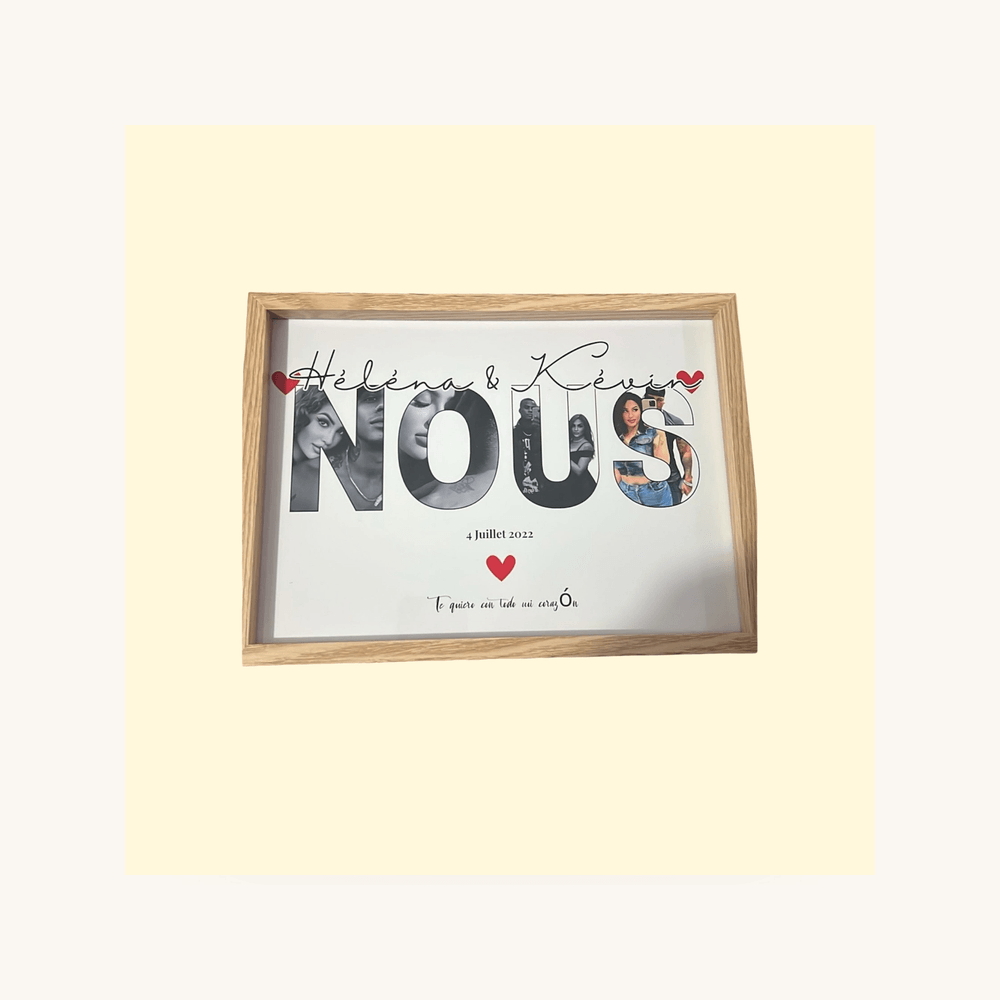
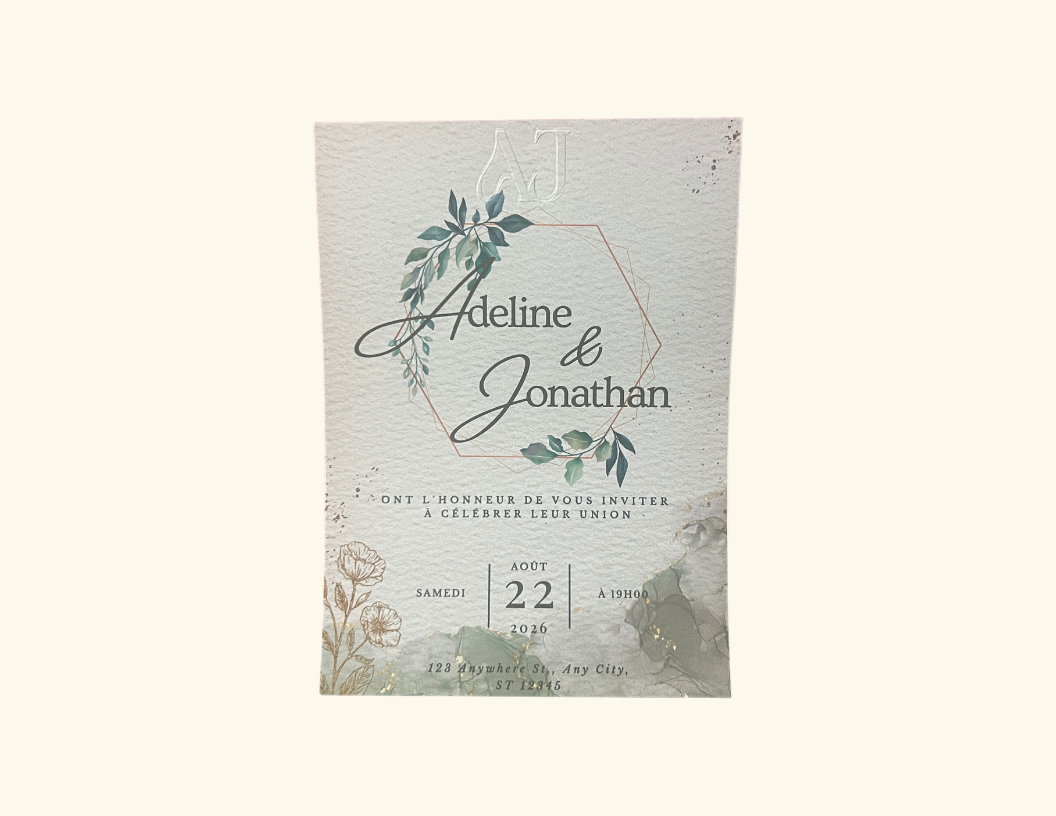
Fix: correction categorySlug du faire-part mariage pour afficher dans bonne sous-categorie

Changed region(s): [[0.217, 0.1225, 0.775, 0.8578]]

diff --git a/src/data/products.ts b/src/data/products.ts
@@ -294,7 +294,7 @@ export const products: Product[] = [
     slug: "faire-part-mariage-elegant",
     price: "Sur devis",
     category: "Mariage",
-    categorySlug: "mariage",
+    categorySlug: "faire-parts",
     image: "/images/products/faire-part-mariage-elegant.png",
     description: "Faire-part de mariage élégant avec cadre géométrique, feuillage vert et finitions dorées. Entièrement personnalisable : prénoms, date, lieu et texte.",
     rating: 5,
